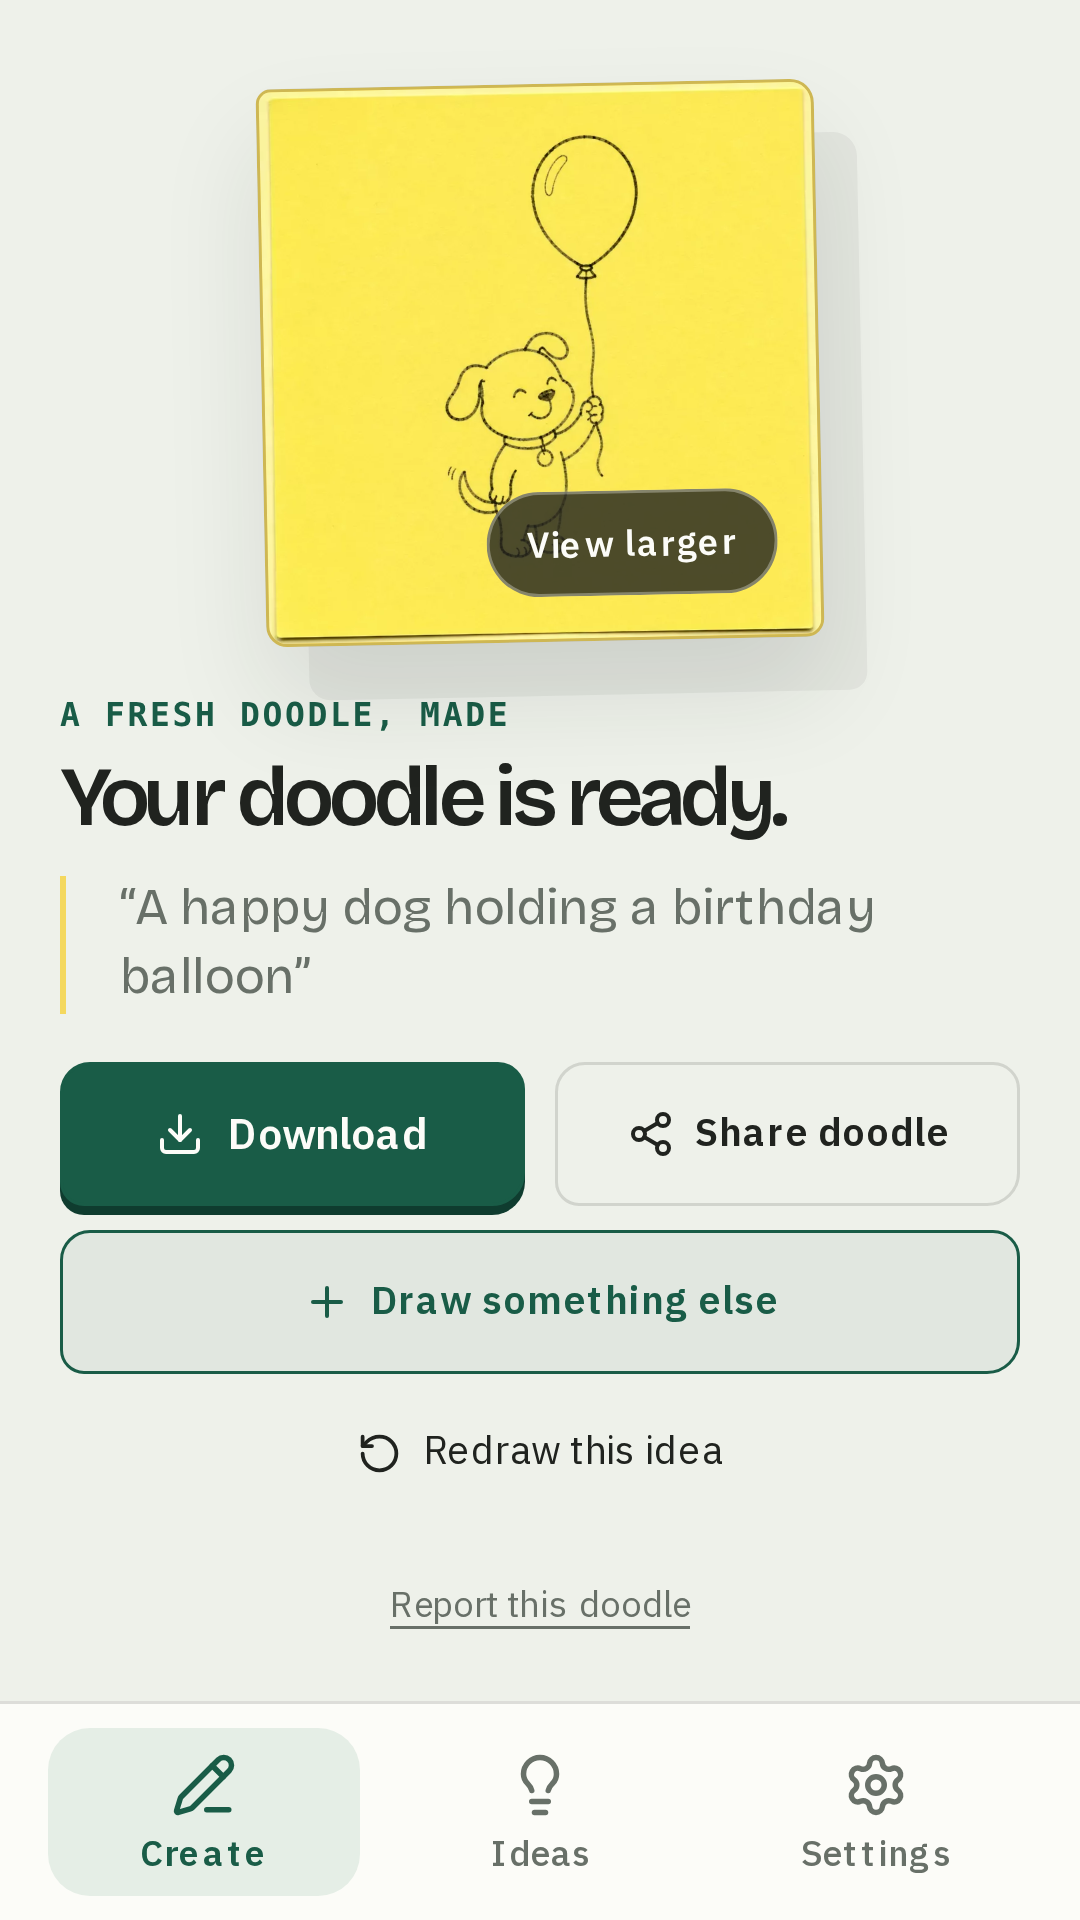
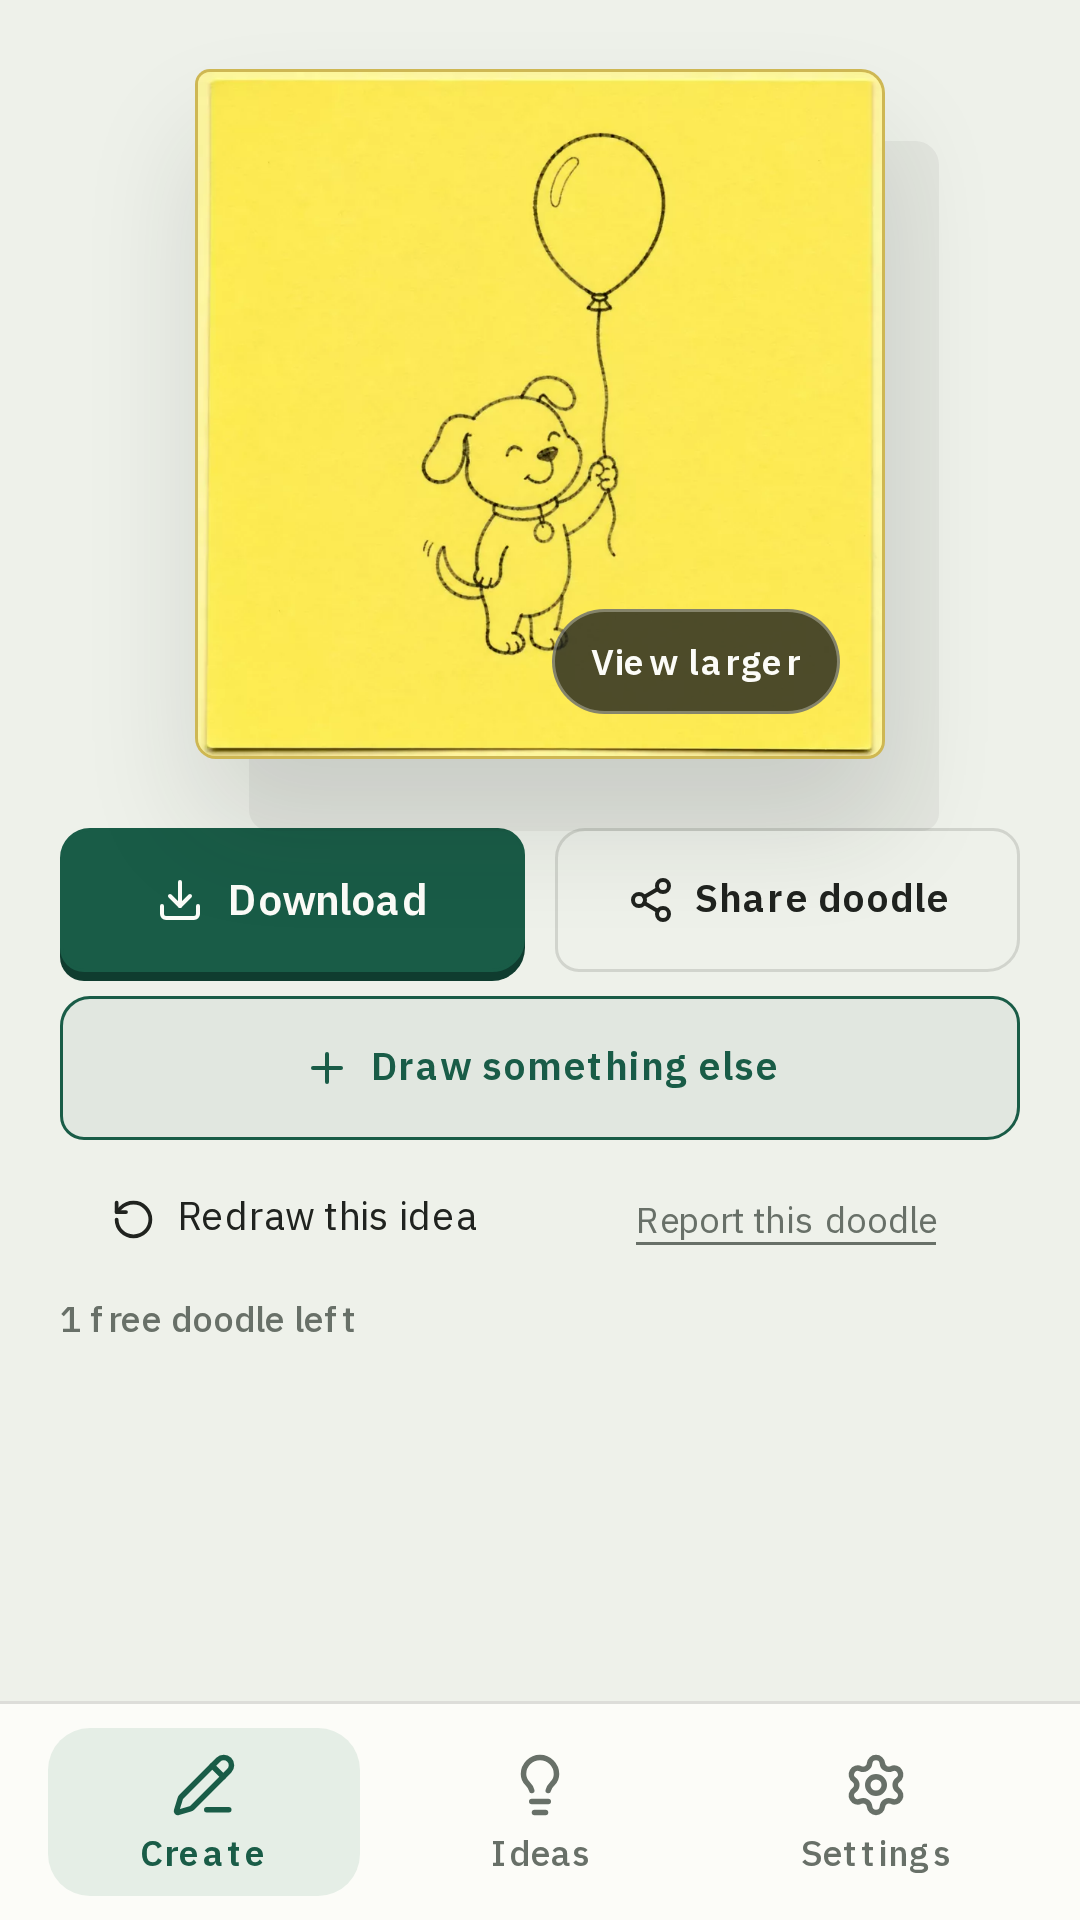
Simplify result screen around drawing and primary actions

diff --git a/doodle/src/components/mobile-app-workspace.css b/doodle/src/components/mobile-app-workspace.css
@@ -12,7 +12,9 @@ body:has(.mobile-app-workspace[data-installed="true"]) .doodle-main {
 .mobile-app-workspace[data-installed="true"] .doodle-workspace { display: flex; flex-direction: column; gap: 18px; }
 .mobile-app-workspace[data-installed="true"] .doodle-workspace-ready .workspace-visual,
 .mobile-app-workspace[data-installed="true"] .doodle-workspace-generating .workspace-visual { order: -1; }
-.mobile-app-workspace[data-installed="true"] .doodle-workspace-ready .doodle-stage { width: min(100%, 29svh, 280px); margin: 0 auto; }
+.mobile-app-workspace[data-installed="true"] .doodle-workspace-ready .doodle-stage { width: min(100%, 36svh, 320px); margin: 0 auto; }
+.mobile-app-workspace[data-installed="true"] #ready-title { position: absolute; width: 1px; height: 1px; padding: 0; margin: -1px; overflow: hidden; clip-path: inset(50%); white-space: nowrap; }
+.mobile-app-workspace[data-installed="true"] .result-actions { margin-top: 0; }
 .mobile-app-workspace[data-installed="true"] .composer-section h1 { font-size: clamp(32px, 8vw, 42px); }
 .mobile-app-workspace[data-installed="true"] .state-copy h1 { font-size: clamp(28px, 7.5vw, 36px); }
 .mobile-app-workspace[data-installed="true"] .doodle-stage-reference { display: none; }

diff --git a/doodle/src/components/result-actions.tsx b/doodle/src/components/result-actions.tsx
@@ -77,12 +77,14 @@ export function ResultActions({ imageUrl, imageFile, scene, locale, onTryAgain, 
           <Plus size={16} aria-hidden="true" />
           {copy.newScene}
         </button>
-        <button type="button" onClick={onTryAgain}>
-          <RotateCcw size={15} aria-hidden="true" />
-          {copy.redraw}
-        </button>
+        <div className="result-utility-actions">
+          <button type="button" onClick={onTryAgain}>
+            <RotateCcw size={15} aria-hidden="true" />
+            {copy.redraw}
+          </button>
+          <button className="report-action" type="button" onClick={() => setReportOpen(true)}>{REPORT_COPY[locale].trigger}</button>
+        </div>
       </div>
-      <button className="report-action" type="button" onClick={() => setReportOpen(true)}>{REPORT_COPY[locale].trigger}</button>
       {reportOpen ? <ReportDialog key={imageUrl} open imageFile={imageFile} scene={scene} locale={locale} onClose={() => setReportOpen(false)} /> : null}
     </div>
   );

diff --git a/doodle/src/components/doodle-client.tsx b/doodle/src/components/doodle-client.tsx
@@ -314,9 +314,7 @@ export function DoodleClient({ locale, copy, initialScene = "" }: DoodleClientPr
           </section>
         ) : generation.status === "ready" ? (
           <section className="state-copy" aria-labelledby="ready-title">
-            <p className="eyebrow">{copy.status.readyEyebrow}</p>
             <h1 id="ready-title">{copy.status.readyTitle}</h1>
-            <p className="scene-summary">“{scene}”</p>
             <ResultActions imageUrl={generation.imageUrl} imageFile={generation.imageFile} scene={scene} locale={locale} onTryAgain={createDoodle} onNewScene={handleNewScene} copy={copy.actions} />
             <div className="workspace-usage">
               {usage === null

diff --git a/doodle/src/app/globals.css b/doodle/src/app/globals.css
@@ -647,6 +647,11 @@ dialog:focus-visible {
   margin-top: 30px;
 }
 
+.state-copy #ready-title { font-size: clamp(30px, 4vw, 48px); }
+.result-utility-actions { display: flex; align-items: center; justify-content: space-between; gap: 8px; }
+.result-utility-actions button { flex: 1; }
+.secondary-actions .result-utility-actions .report-action { font-size: 12px; color: var(--muted); }
+
 .primary-action {
   width: 100%;
   padding: 0 16px;

diff --git a/doodle/docs/mobile-app-experience.md b/doodle/docs/mobile-app-experience.md
@@ -15,6 +15,8 @@ Implemented September 7, 2026. The Android launch URL (`/?runtime=play`) and ins
 
 ## Screenshot provenance
 
+Result simplification: removed the decorative ready eyebrow and repeated scene text. Installed mode keeps its ready heading accessible to screen readers without displaying another announcement above the actions, and gives the drawing more space. Download/Share and Draw something else stay prominent; Redraw/Report share a quiet utility row. The website retains a smaller visible ready heading. Verified 20 browser checks covering mobile/desktop/locales/reporting and 30 relevant component tests, plus lint.
+
 `store-assets/phone-drafts/` contains 1080 x 1920 opaque RGB captures of the actual installed-mode interface, rendered in Chromium at 360 x 640 CSS pixels. Existing Doodle example drawings are replayed through local generation fixtures; no paid generation or real purchase is performed. The optional Settings capture is included in the preview gallery.
 
 These are store screenshot drafts, not captures from a Play-installed Android app. Android toolbar/domain association, real keyboard/Back, file download/share and real Play transactions still require Android verification. The native emulator setup and its current download limitation are documented in `android-toolchain.md`.
